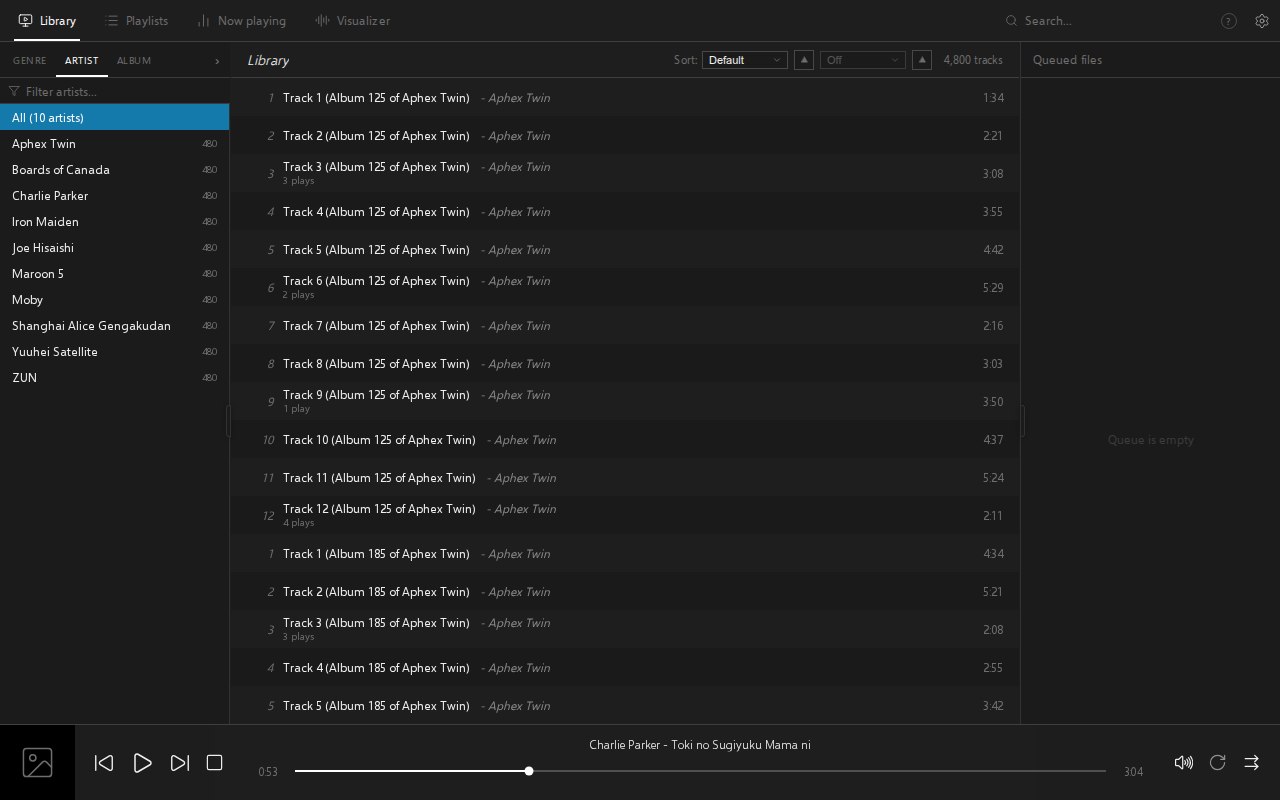
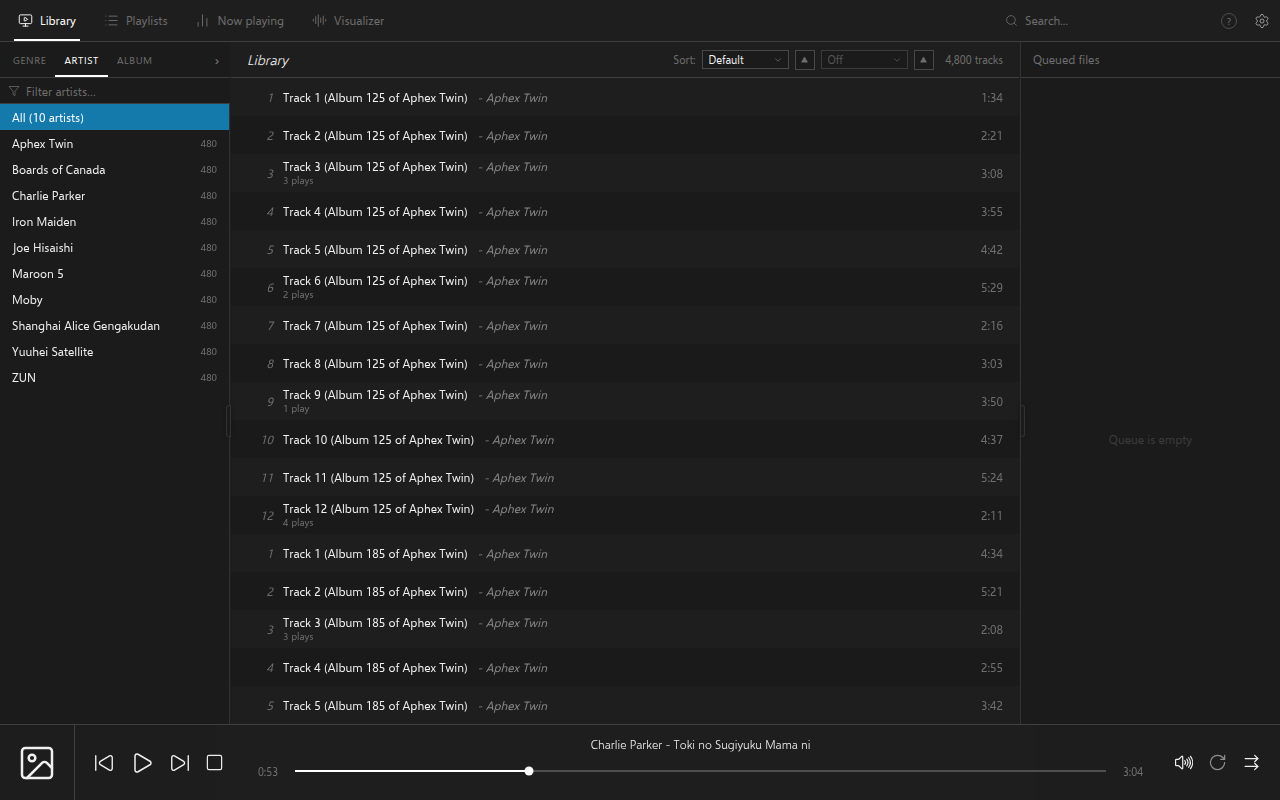
Update library screenshot and drop black cover tile in mock mode
Without Tauri, the transport cover button showed the black COVER_NONE
tile; it now shows the same empty image icon as the real app when
there is no cover, so dev-mode screenshots match the app.

diff --git a/src/lib/components/transport/CoverThumb.svelte b/src/lib/components/transport/CoverThumb.svelte
@@ -1,6 +1,6 @@
 <script lang="ts">
   import { isTauri, call, artUrl } from "$lib/api";
-  import { COVER_MISSING, COVER_NONE } from "$lib/icons";
+  import { COVER_MISSING } from "$lib/icons";
   import { player } from "$lib/stores/player.svelte";
   import Icon from "$lib/components/common/Icon.svelte";
 
@@ -9,7 +9,7 @@
     if (!t) return null;
     if (isTauri && t.album_id != null) return artUrl("album", t.album_id, "thumb");
     if (isTauri) return artUrl("track", t.id, "thumb");
-    return COVER_NONE;
+    return null;
   });
 
   function openBig() {
